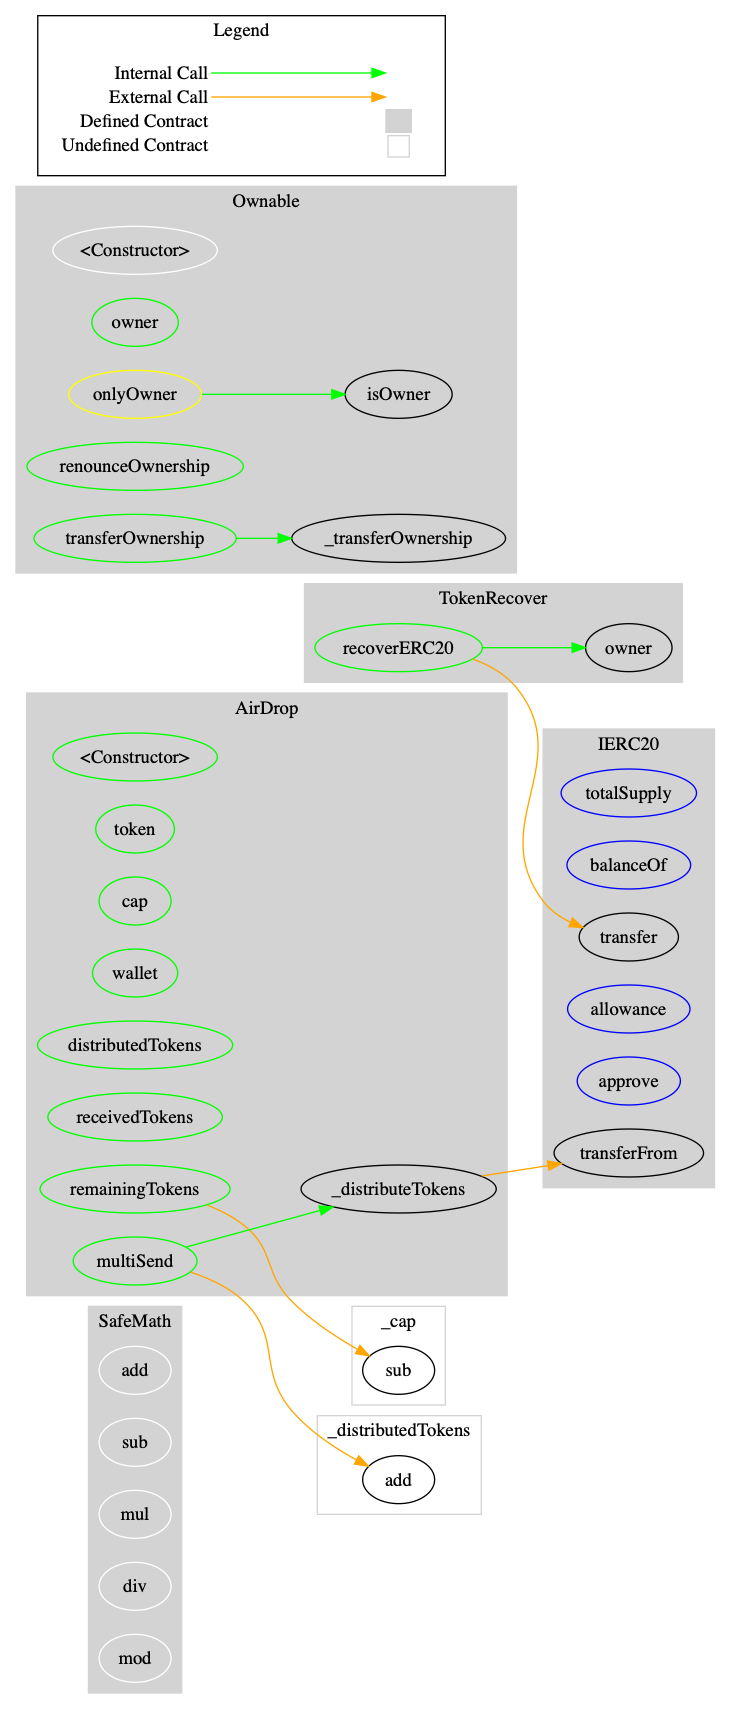
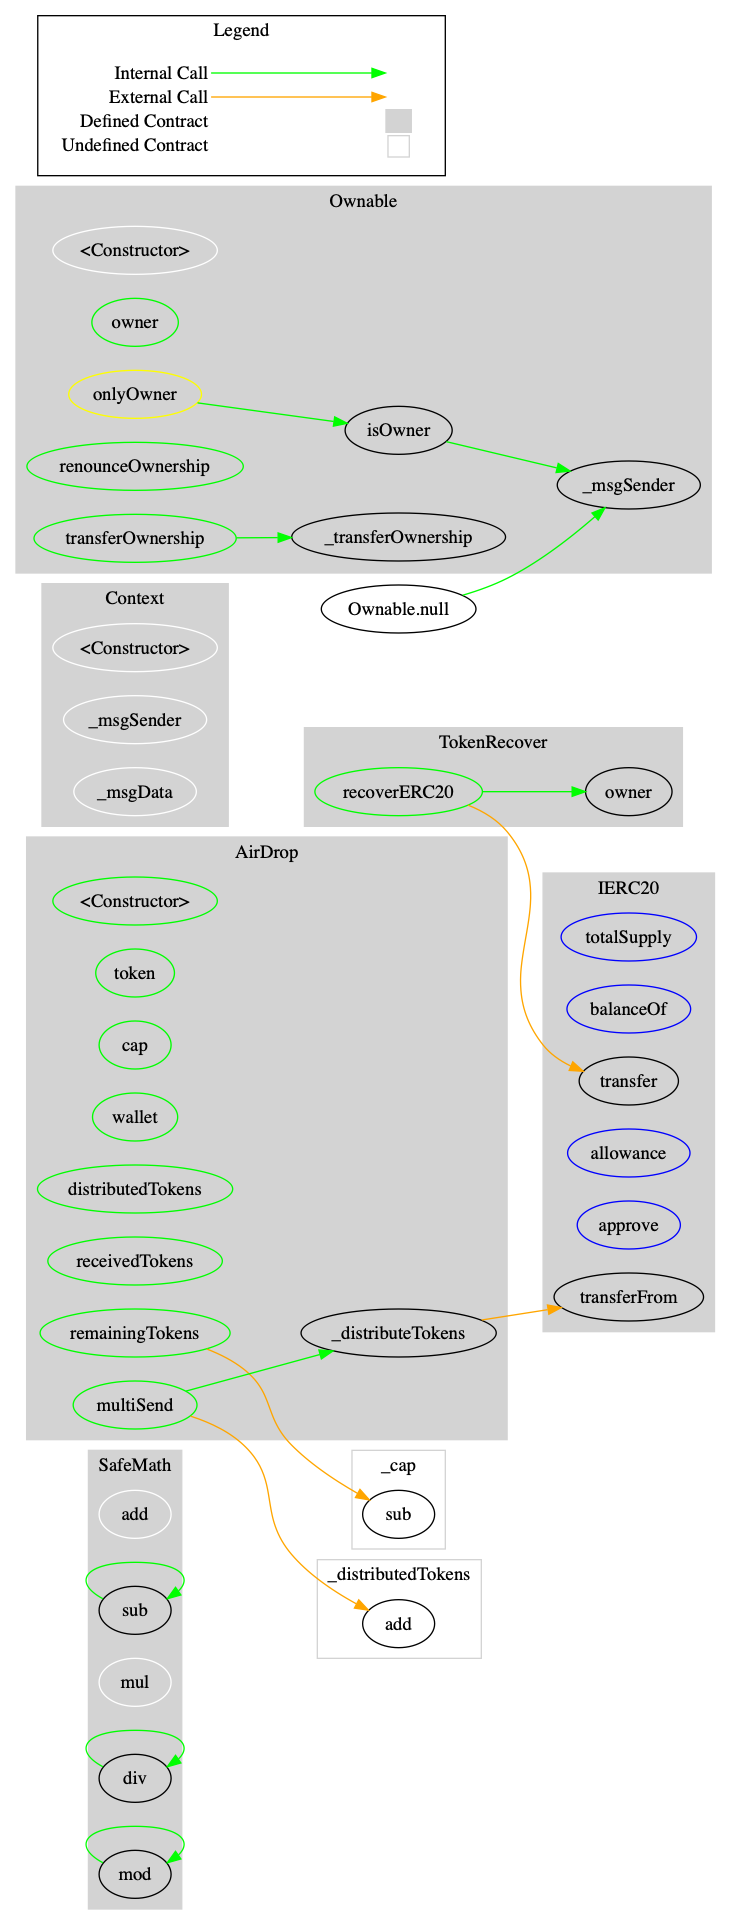
chore: updated solidity and dependencies

Changed region(s): [[0.0, 0.0, 0.9932, 0.9924], [0.3912, 0.6823, 0.6922, 0.7133], [0.6922, 0.4652, 0.7223, 0.5272]]

diff --git a/test/AirDrop.behaviour.js b/test/AirDrop.behaviour.js
@@ -1,4 +1,4 @@
-const { BN, expectRevert } = require('openzeppelin-test-helpers');
+const { BN, expectRevert } = require('@openzeppelin/test-helpers');
 
 const { shouldBehaveLikeTokenRecover } = require('eth-token-recover/test/TokenRecover.behaviour');
 
@@ -35,7 +35,7 @@ function shouldBehaveLikeAirDrop (accounts, cap) {
     describe('if spender has not allowance', function () {
       it('reverts', async function () {
         await expectRevert.unspecified(
-          this.airdrop.multiSend([addresses[1]], [100], { from: airdropOwner })
+          this.airdrop.multiSend([addresses[1]], [100], { from: airdropOwner }),
         );
       });
     });
@@ -100,7 +100,7 @@ function shouldBehaveLikeAirDrop (accounts, cap) {
           }
           const remainingTokens = await this.airdrop.remainingTokens();
           remainingTokens.should.be.bignumber.equal(
-            cap.sub(totalGivenTokens)
+            cap.sub(totalGivenTokens),
           );
         });
 
@@ -165,7 +165,7 @@ function shouldBehaveLikeAirDrop (accounts, cap) {
           it('reverts', async function () {
             const moreThanTheCap = cap.addn(1);
             await expectRevert.unspecified(
-              this.airdrop.multiSend([addresses[1]], [moreThanTheCap], { from: airdropOwner })
+              this.airdrop.multiSend([addresses[1]], [moreThanTheCap], { from: airdropOwner }),
             );
           });
         });
@@ -173,7 +173,7 @@ function shouldBehaveLikeAirDrop (accounts, cap) {
         describe('if addresses are empty', function () {
           it('reverts', async function () {
             await expectRevert.unspecified(
-              this.airdrop.multiSend([], amounts, { from: airdropOwner })
+              this.airdrop.multiSend([], amounts, { from: airdropOwner }),
             );
           });
         });
@@ -181,7 +181,7 @@ function shouldBehaveLikeAirDrop (accounts, cap) {
         describe('if amounts are empty', function () {
           it('reverts', async function () {
             await expectRevert.unspecified(
-              this.airdrop.multiSend(addresses, [], { from: airdropOwner })
+              this.airdrop.multiSend(addresses, [], { from: airdropOwner }),
             );
           });
         });
@@ -189,7 +189,7 @@ function shouldBehaveLikeAirDrop (accounts, cap) {
         describe('if amounts length is not equal to addresses length', function () {
           it('reverts', async function () {
             await expectRevert.unspecified(
-              this.airdrop.multiSend([addresses[0]], [amounts[0], amounts[1]], { from: airdropOwner })
+              this.airdrop.multiSend([addresses[0]], [amounts[0], amounts[1]], { from: airdropOwner }),
             );
           });
         });
@@ -198,7 +198,7 @@ function shouldBehaveLikeAirDrop (accounts, cap) {
       describe('if token owner is calling', function () {
         it('reverts', async function () {
           await expectRevert.unspecified(
-            this.airdrop.multiSend(addresses, amounts, { from: tokenOwner })
+            this.airdrop.multiSend(addresses, amounts, { from: tokenOwner }),
           );
         });
       });
@@ -206,7 +206,7 @@ function shouldBehaveLikeAirDrop (accounts, cap) {
       describe('if another account is calling', function () {
         it('reverts', async function () {
           await expectRevert.unspecified(
-            this.airdrop.multiSend(addresses, amounts, { from: anotherAccount })
+            this.airdrop.multiSend(addresses, amounts, { from: anotherAccount }),
           );
         });
       });

diff --git a/test/AirDrop.test.js b/test/AirDrop.test.js
@@ -1,4 +1,4 @@
-const { BN, constants, expectRevert } = require('openzeppelin-test-helpers');
+const { BN, constants, expectRevert } = require('@openzeppelin/test-helpers');
 const { ZERO_ADDRESS } = constants;
 
 const { shouldBehaveLikeAirDrop } = require('./AirDrop.behaviour');
@@ -24,7 +24,7 @@ contract('AirDrop', function (accounts) {
     describe('if token address is the zero address', function () {
       it('reverts', async function () {
         await expectRevert.unspecified(
-          AirDrop.new(ZERO_ADDRESS, cap, tokenOwner, { from: airdropOwner })
+          AirDrop.new(ZERO_ADDRESS, cap, tokenOwner, { from: airdropOwner }),
         );
       });
     });
@@ -32,7 +32,7 @@ contract('AirDrop', function (accounts) {
     describe('if cap is zero', function () {
       it('reverts', async function () {
         await expectRevert.unspecified(
-          AirDrop.new(this.token.address, 0, tokenOwner, { from: airdropOwner })
+          AirDrop.new(this.token.address, 0, tokenOwner, { from: airdropOwner }),
         );
       });
     });
@@ -40,7 +40,7 @@ contract('AirDrop', function (accounts) {
     describe('if wallet address is the zero address', function () {
       it('reverts', async function () {
         await expectRevert.unspecified(
-          AirDrop.new(this.token.address, cap, ZERO_ADDRESS, { from: airdropOwner })
+          AirDrop.new(this.token.address, cap, ZERO_ADDRESS, { from: airdropOwner }),
         );
       });
     });
@@ -51,7 +51,7 @@ contract('AirDrop', function (accounts) {
           this.token.address,
           cap,
           tokenOwner,
-          { from: airdropOwner }
+          { from: airdropOwner },
         );
       });
 

diff --git a/truffle-config.js b/truffle-config.js
@@ -1,7 +1,7 @@
 require('chai/register-should');
 
 const solcStable = {
-  version: '0.5.12',
+  version: '0.5.13',
   settings: {
     optimizer: {
       enabled: true,

diff --git a/analysis/description-table/AirDrop.md b/analysis/description-table/AirDrop.md
@@ -5,7 +5,7 @@
 
 |  File Name  |  SHA-1 Hash  |
 |-------------|--------------|
-| dist/AirDrop.dist.sol | 73868ca3782eeb1309a4f1302b62efaa661b885c |
+| dist/AirDrop.dist.sol | 59661bb4b68a9002b2f5297e08831b92c5e58ed5 |
 
 
 ### Contracts Description Table
@@ -18,8 +18,11 @@
 | **SafeMath** | Library |  |||
 | └ | add | Internal 🔒 |   | |
 | └ | sub | Internal 🔒 |   | |
+| └ | sub | Internal 🔒 |   | |
 | └ | mul | Internal 🔒 |   | |
 | └ | div | Internal 🔒 |   | |
+| └ | div | Internal 🔒 |   | |
+| └ | mod | Internal 🔒 |   | |
 | └ | mod | Internal 🔒 |   | |
 ||||||
 | **IERC20** | Interface |  |||
@@ -30,7 +33,12 @@
 | └ | approve | External ❗ | 🛑  |NO❗ |
 | └ | transferFrom | External ❗ | 🛑  |NO❗ |
 ||||||
-| **Ownable** | Implementation |  |||
+| **Context** | Implementation |  |||
+| └ | \<Constructor\> | Internal 🔒 | 🛑  | |
+| └ | _msgSender | Internal 🔒 |   | |
+| └ | _msgData | Internal 🔒 |   | |
+||||||
+| **Ownable** | Implementation | Context |||
 | └ | \<Constructor\> | Internal 🔒 | 🛑  | |
 | └ | owner | Public ❗ |   |NO❗ |
 | └ | isOwner | Public ❗ |   |NO❗ |
